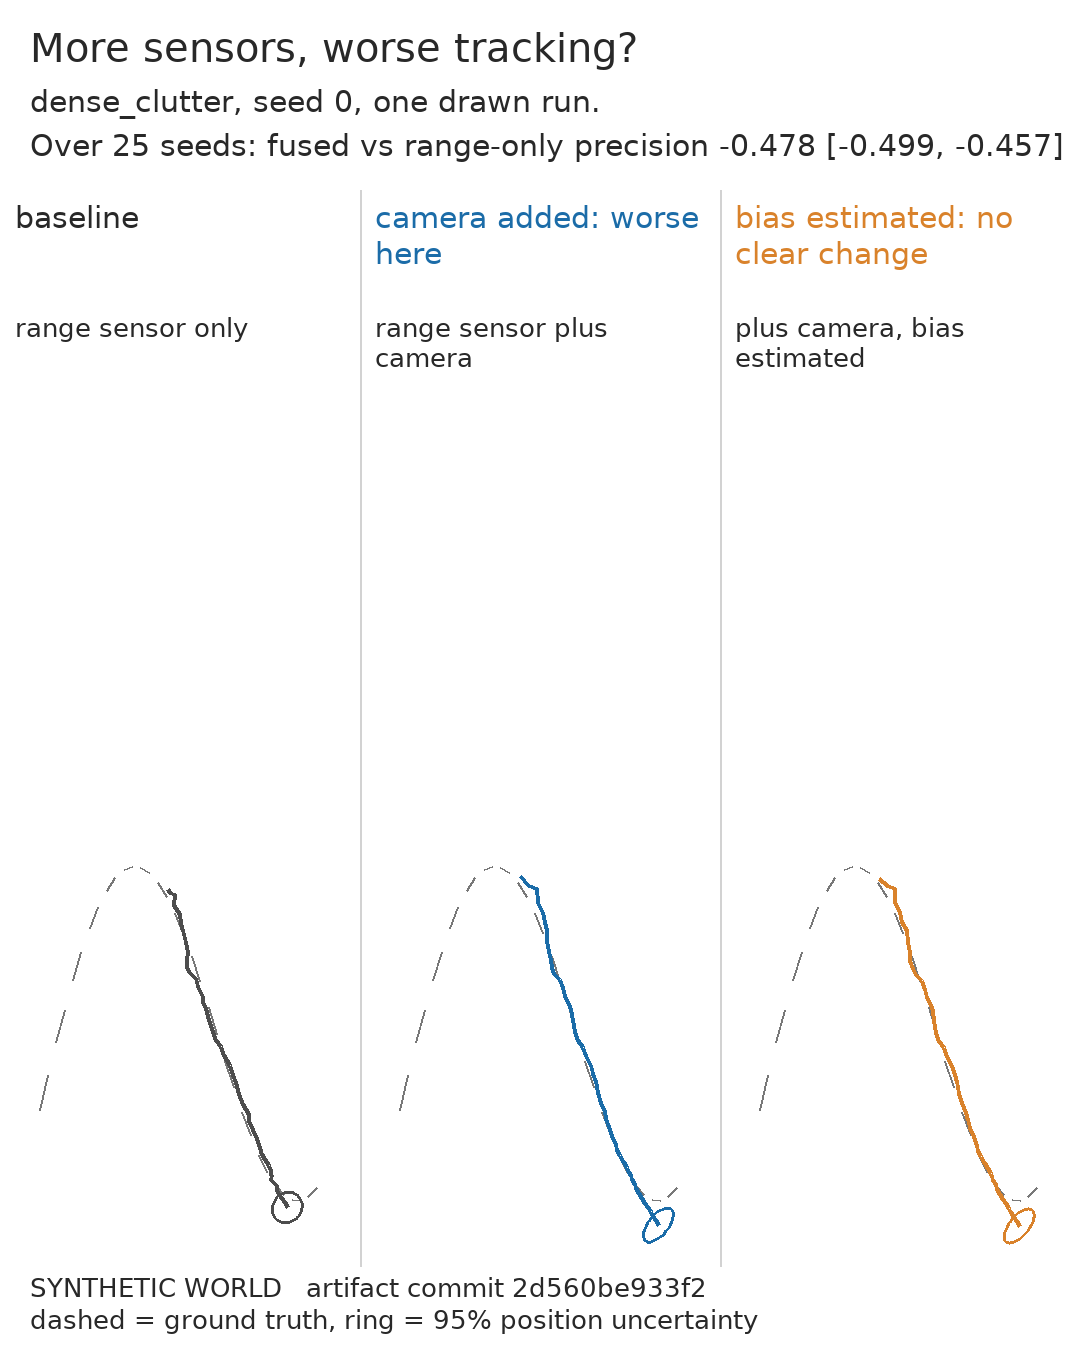
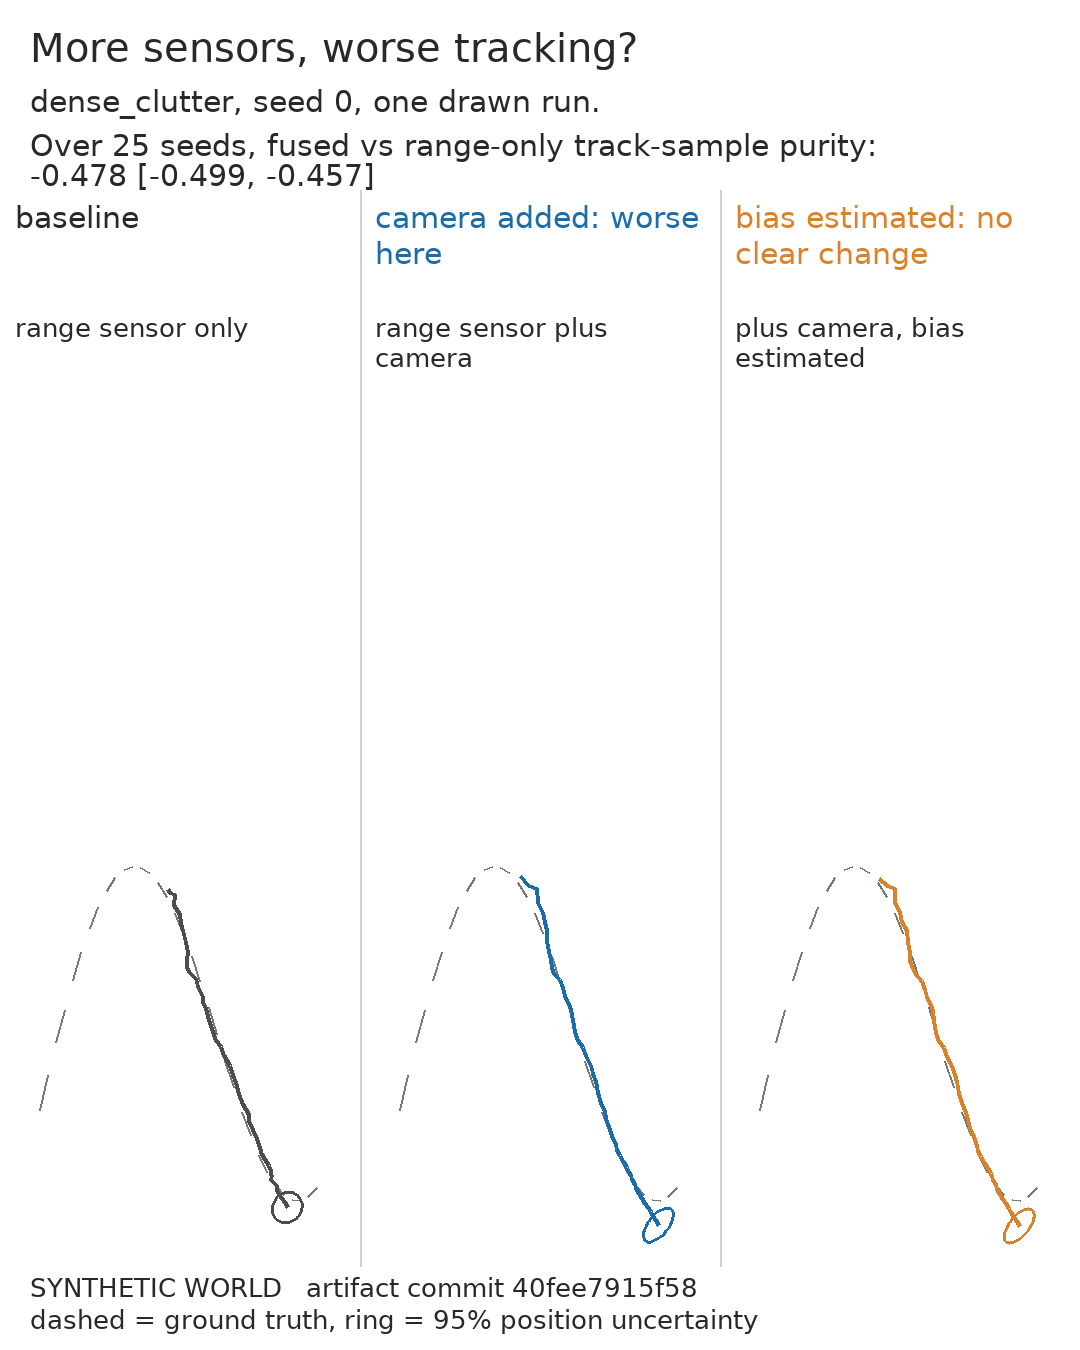
docs(assets): say track-sample purity on the hero stills and their alt text
The hero stills drew and described the metric as precision. The figure text now wraps onto two lines so the interval is not clipped. hero.json and alt_text.json change with it, and the README alt text is re-synced. The held-out artifacts are untouched.

Claude-Session: https://claude.ai/code/session_011kcqHUK9nNc7K4DA8PgctH

Changed region(s): [[0.5194, 0.0933, 1.0, 0.1244], [0.0306, 0.1244, 0.3361, 0.1556], [0.4583, 0.9333, 0.6417, 0.9644]]

diff --git a/scripts/make_hero.py b/scripts/make_hero.py
@@ -154,7 +154,7 @@ def _alt(scenario: str, labels: dict[str, str], interval: dict[str, float], comp
         f"Three panels of one simulated target in the {scenario} scenario of a synthetic world: "
         f"range sensor only ({labels['range_only']}), {labels['fused']}, and {labels['fused_bias_estimated']}. "
         f"Ground truth is dashed; each panel marks the 95% position uncertainty at the end of the track. "
-        f"Paired precision difference, {what}: {interval['mean']:+.3f}, "
+        f"Paired track-sample purity difference, {what}: {interval['mean']:+.3f}, "
         f"95% interval [{interval['ci95_low']:+.3f}, {interval['ci95_high']:+.3f}]."
     )
 
@@ -224,7 +224,12 @@ def render_still(data: dict[str, Any], still: dict[str, Any]) -> Any:
     )
     draw.text(
         (30, 128),
-        f"Over {still['n_seeds']} seeds: {SHORT[still['comparison']]} precision "
+        f"Over {still['n_seeds']} seeds, {SHORT[still['comparison']]} track-sample purity:",
+        fill=COLORS["text"],
+        font=body,
+    )
+    draw.text(
+        (30, 158),
         f"{p['mean']:+.3f} [{p['ci95_low']:+.3f}, {p['ci95_high']:+.3f}]",
         fill=COLORS["text"],
         font=body,

diff --git a/README.md b/README.md
@@ -9,7 +9,7 @@
 <p align="center"><em>Watch the 44-second explainer on the <a href="https://telschow.github.io/mosaic-perception/#watch-the-explainer">project site</a>. Synthetic world, one drawn run; the two figures are the benchmark means over the 25 development seeds.</em></p>
 
 <p align="center">
-  <img src="docs-site/src/assets/generated/hero_recovers.png" alt="Three panels of one simulated target in the sensor_disagreement_within_gate_high scenario of a synthetic world: range sensor only (baseline), camera added: worse here, and bias corrected: partly recovered. Ground truth is dashed; each panel marks the 95% position uncertainty at the end of the track. Paired precision difference, bias-estimated against fused: +0.131, 95% interval [+0.100, +0.162]." width="620">
+  <img src="docs-site/src/assets/generated/hero_recovers.png" alt="Three panels of one simulated target in the sensor_disagreement_within_gate_high scenario of a synthetic world: range sensor only (baseline), camera added: worse here, and bias corrected: partly recovered. Ground truth is dashed; each panel marks the 95% position uncertainty at the end of the track. Paired track-sample purity difference, bias-estimated against fused: +0.131, 95% interval [+0.100, +0.162]." width="620">
 </p>
 
 <p align="center"><em>Synthetic world, one drawn run. The figures are paired results over the 25 development seeds. Exploratory best case: a rule picked the scenario with the largest paired precision gain of bias estimation over fusion whose interval excludes zero, which is 3 of the 16 scenarios, and the interval is not adjusted for that selection. Bias estimation here corrects a vision bearing bias that passes the gate, against an unbiased range-bearing anchor. The full per-scenario table is in <a href="artifacts/benchmark/report.md">the report</a>; see <a href="docs/demos.md">docs/demos.md</a>.</em></p>
